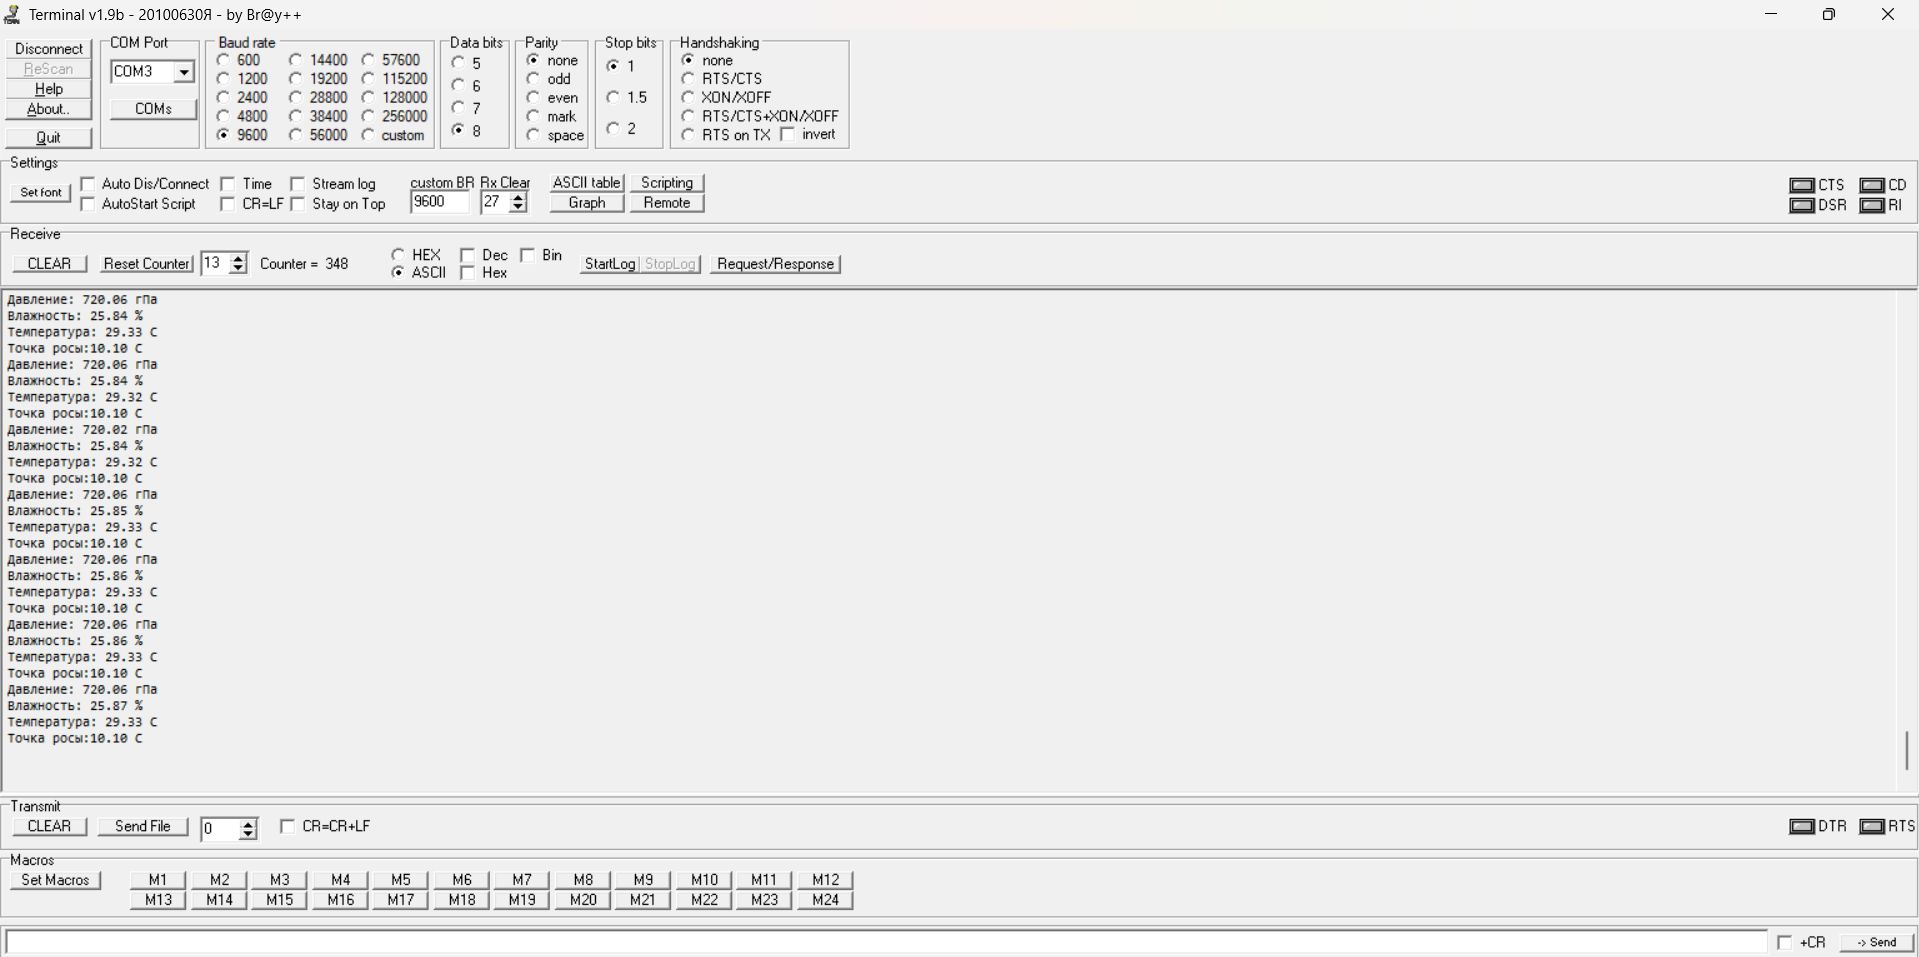
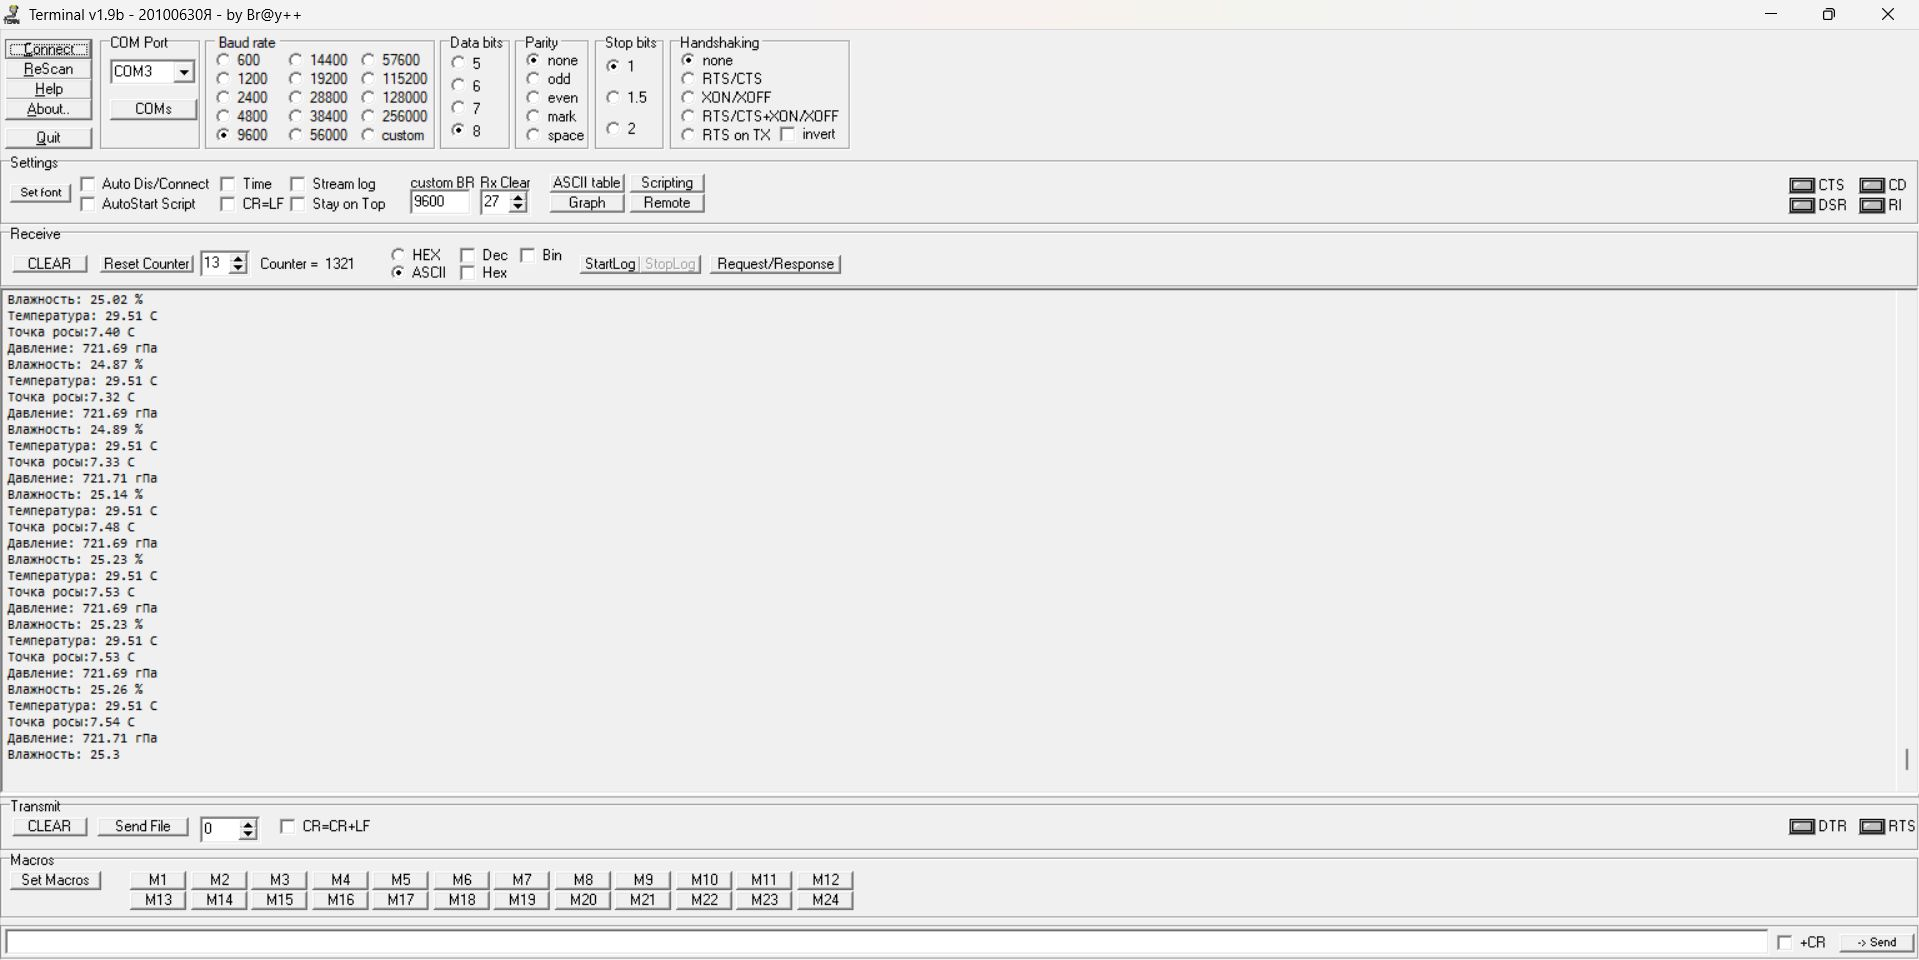
3

diff --git a/RtosWrapper-master/Application/PhysicalValues/calculationdewpoint.cpp b/RtosWrapper-master/Application/PhysicalValues/calculationdewpoint.cpp
@@ -1,19 +1,28 @@
 #include "calculationdewpoint.h"
-#include <iostream> // for log()
+#include <cmath> // для std::log
 
 void DewPoint::Calculation()
 {
-  constexpr float a = 17.27f; // значение взятые с википедии
-  constexpr float b = 237.7f; // значение взятые с википедии, градусы
-  constexpr auto divider = 10.0f;
-  auto humidity = mdataH.GetData();
-  auto temperature = mdataT.GetData();
-  float measuredY = ((a * temperature) / (b + temperature))+ std::log(humidity);
-  value = (b * measuredY) / (a - measuredY);
-  value = value / divider;  
+    constexpr float a = 17.27f;
+    constexpr float b = 237.7f;
+    
+    
+    auto humidity = mdataH.GetData(); // в процентах (например, 50%)
+    auto temperature = mdataT.GetData(); // в градусах Цельсия
+    
+   
+    float humidityFraction = humidity / 100.0f;
+    
+   
+    float gamma = (a * temperature) / (b + temperature) + std::log(humidityFraction);
+    
+    
+    value = (b * gamma) / (a - gamma);
+    
+   
 }
 
 float DewPoint::GetData()
 {
-  return value;
-};
+    return value;
+}
